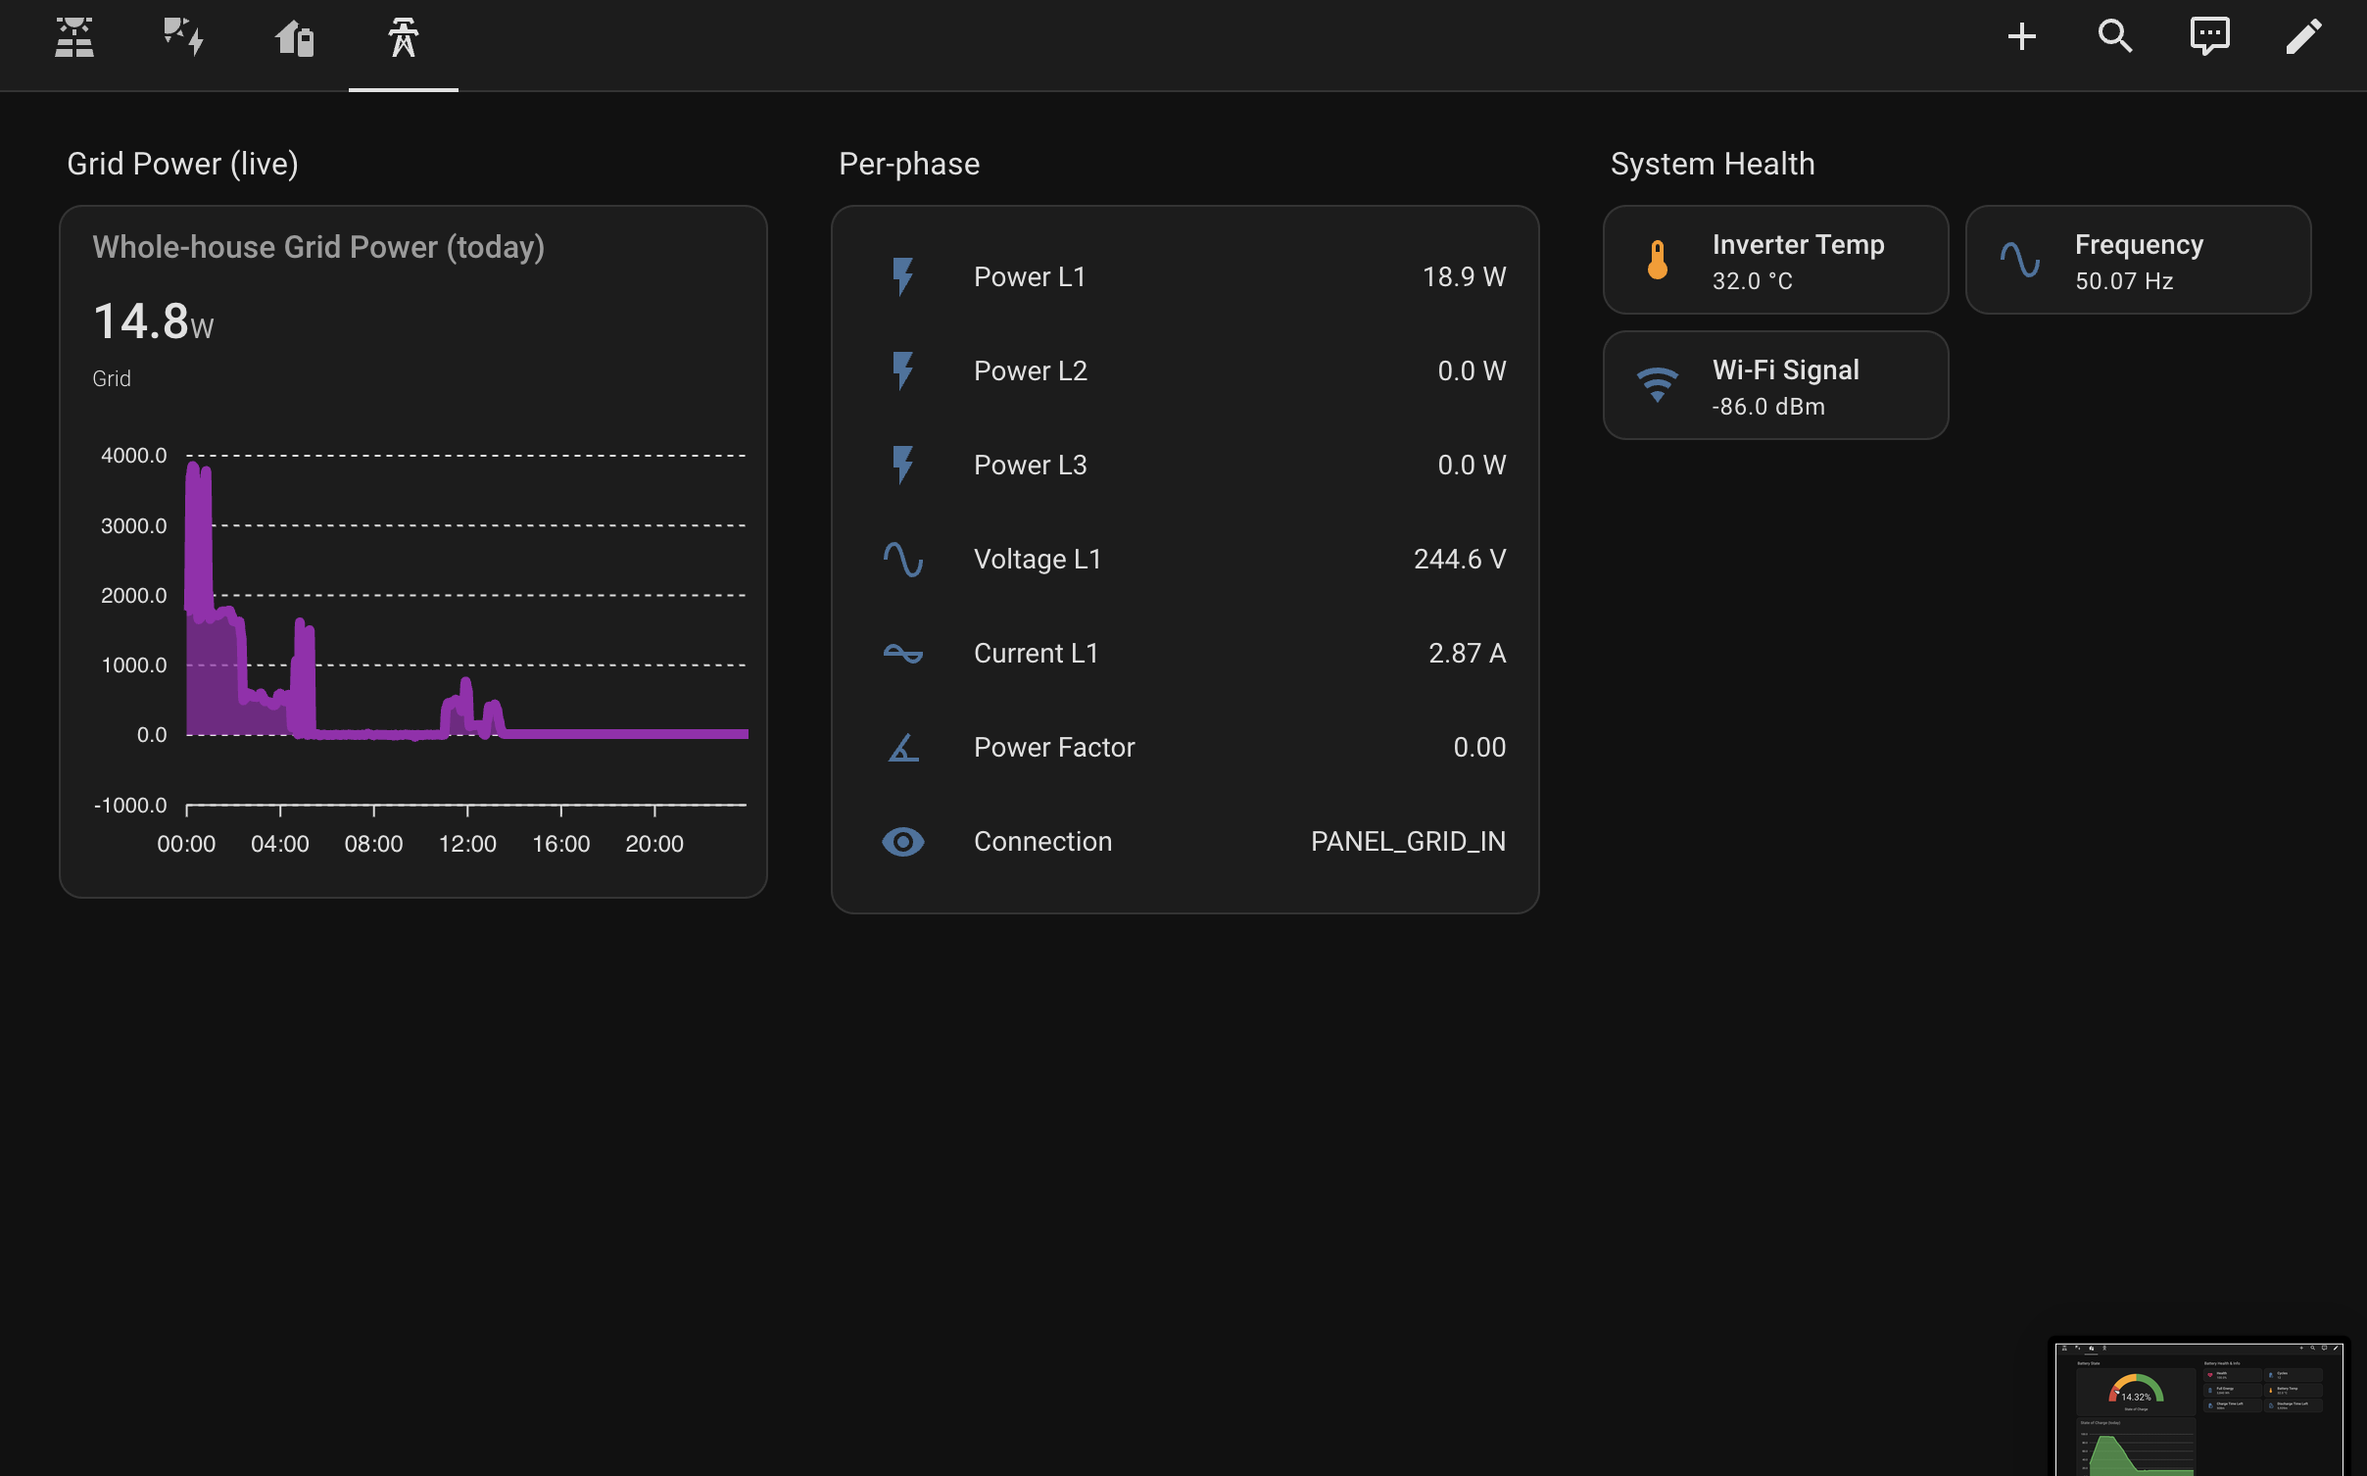
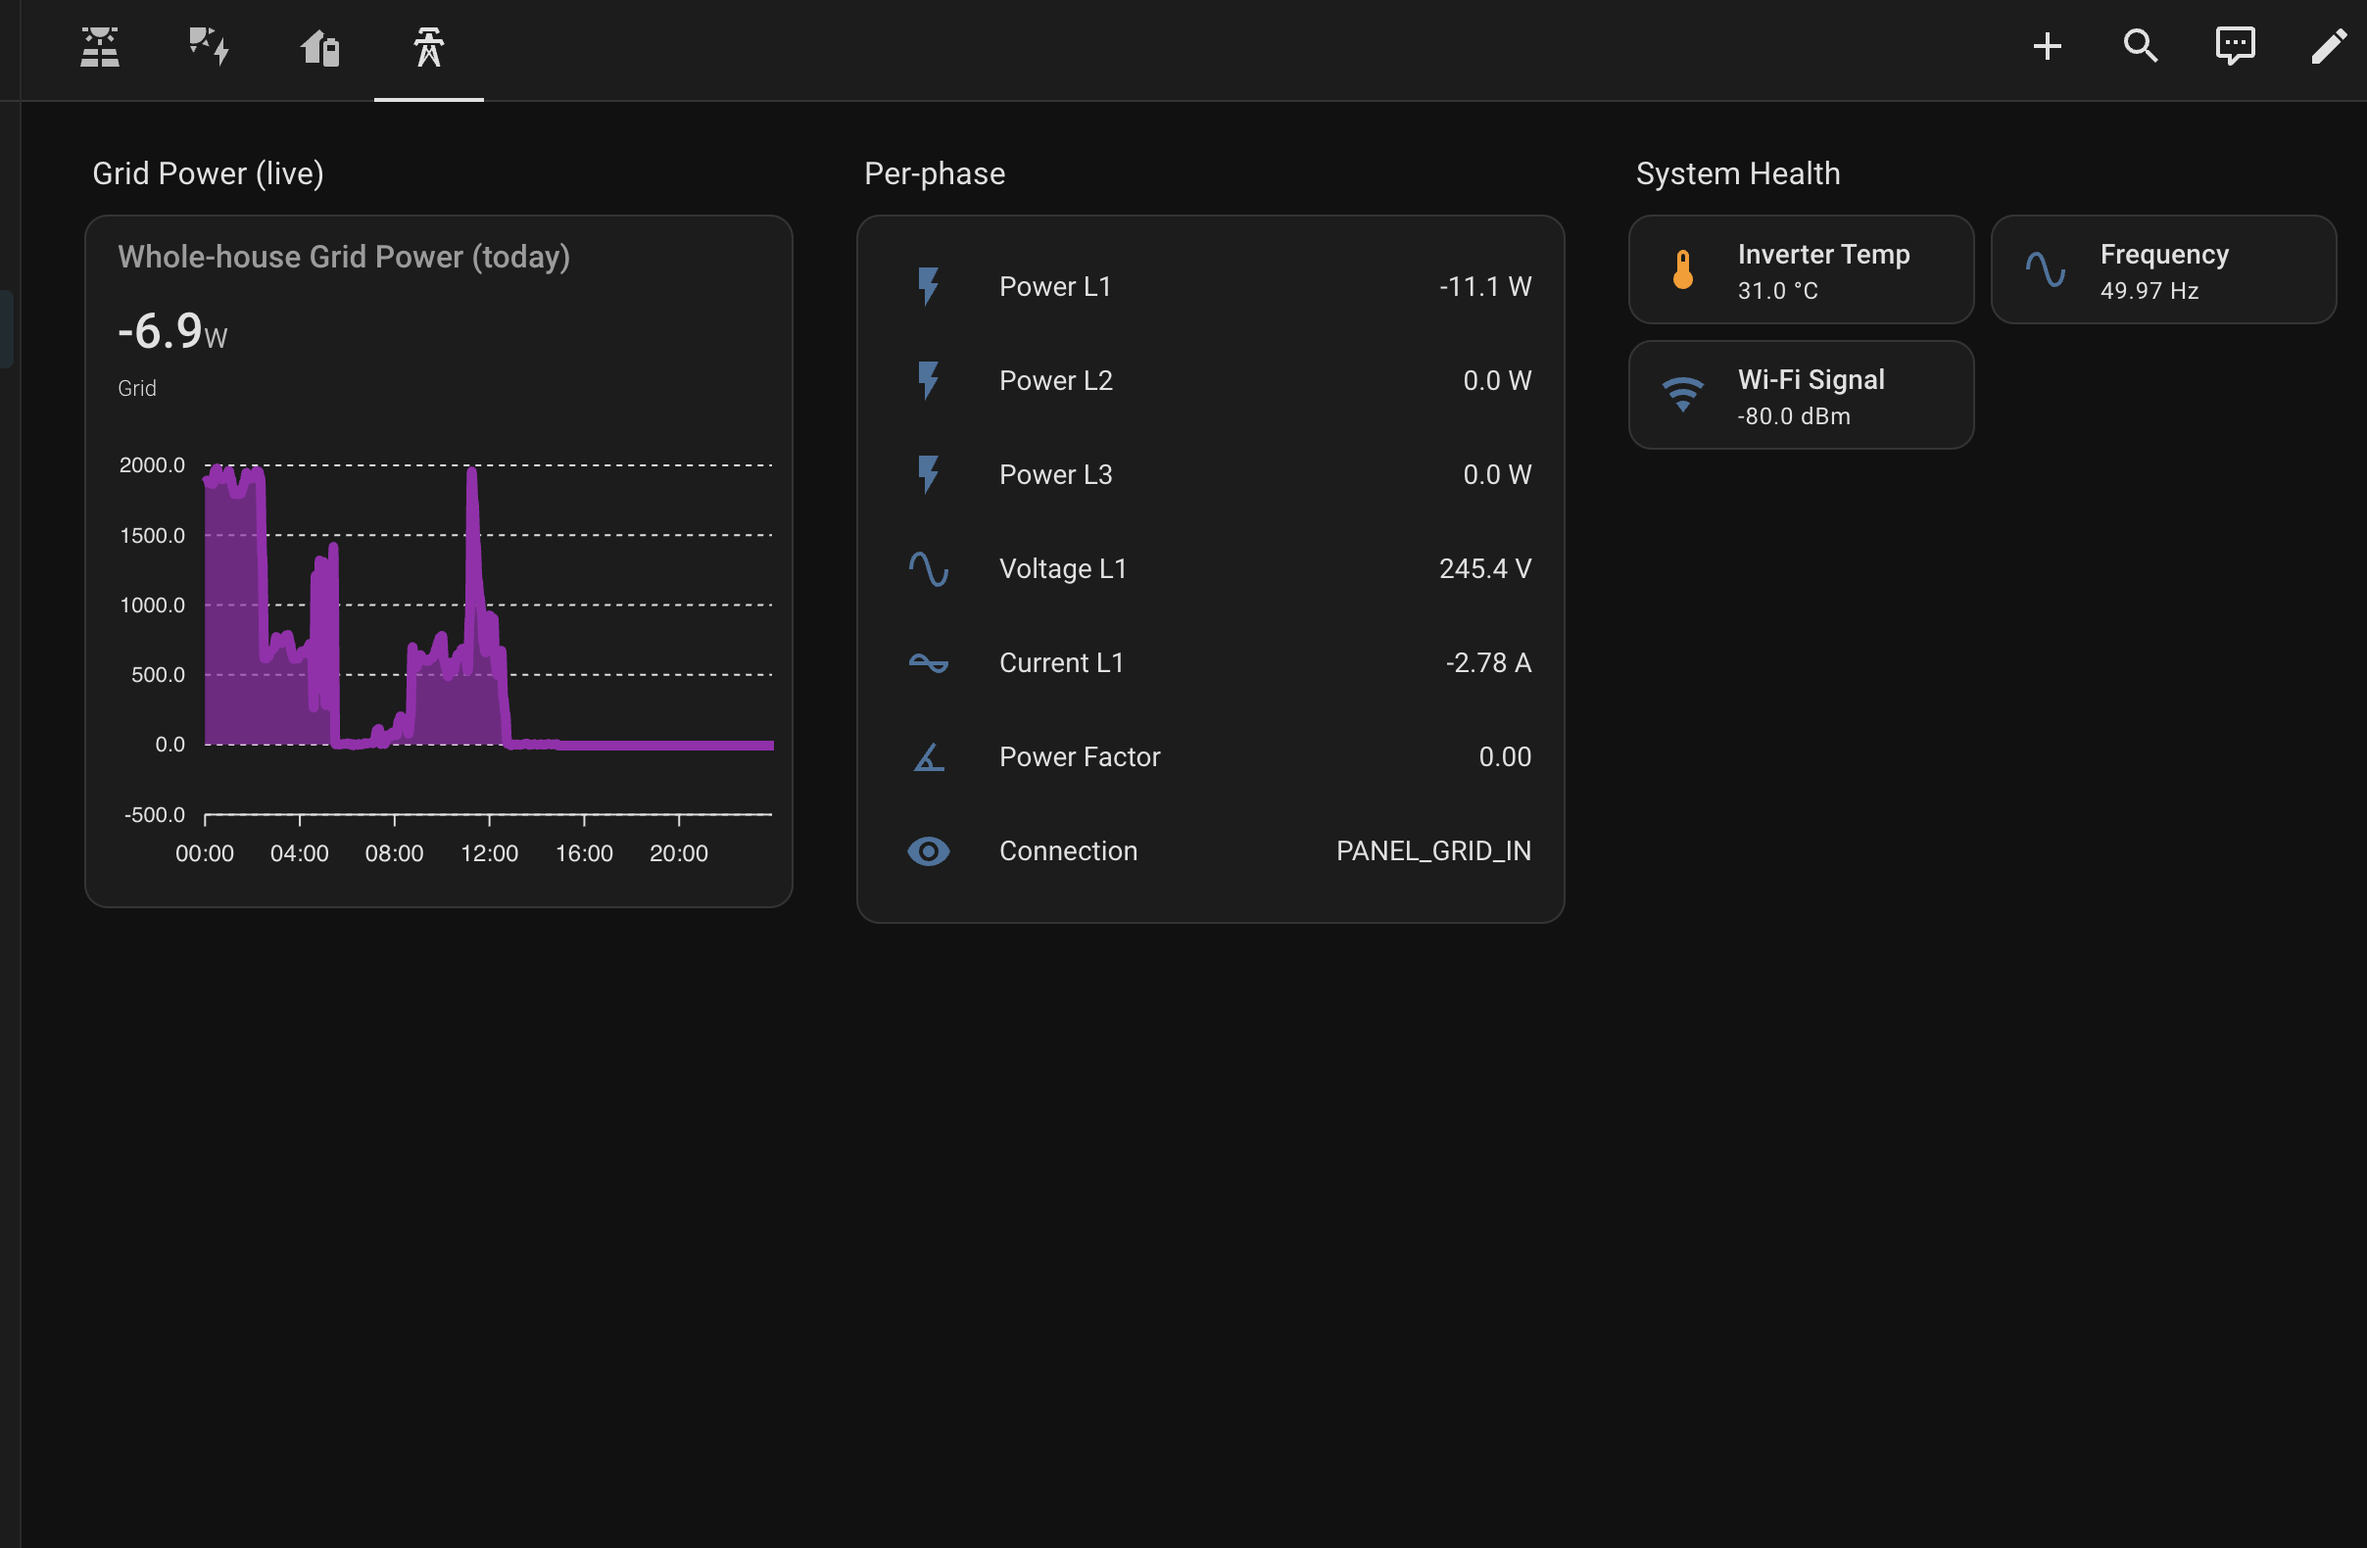
v0.6.0 docs: update README, CHANGELOG, entity_mapping, and screenshots
- README: update intro, features, supported devices (add Stream Max, multi-battery
  cascade), dashboard card name (ecoflow-power-flow-card), rate limiting note
  (single shared MQTT connection)
- CHANGELOG: add v0.6.0 entry covering all changes from this session
- docs/entity_mapping.md: already updated in previous commit
- docs/images: replace all four dashboard screenshots with current UI

diff --git a/README.md b/README.md
@@ -1,14 +1,14 @@
 # EcoFlow Stream (Public API) — Home Assistant Integration
 
-A lightweight, independent Home Assistant integration for the **EcoFlow Stream Ultra X**
-inverter and the EcoFlow **Smart Meter**, built on EcoFlow's
+A lightweight, independent Home Assistant integration for **EcoFlow Stream** inverter
+systems and the EcoFlow **Smart Meter**, built on EcoFlow's
 **official public developer API** (IoT Open) — HMAC-signed HTTP plus the EcoFlow MQTT
 broker for near-real-time push telemetry.
 
-> **Supported devices:** this integration has only been developed and verified against
-> the **Stream Ultra X** inverter and the **Smart Meter**. Other Stream models
-> (Stream, Stream Max, Stream Ultra) are **not officially supported** — see
-> [Supported devices](#supported-devices) below.
+> **Supported devices:** this integration is developed and verified against the
+> **Stream Ultra X** (including multi-battery cascade systems) and the **Smart Meter**.
+> The **Stream Max** is also supported. Other Stream models are not officially
+> supported — see [Supported devices](#supported-devices) below.
 
 > This is a clean-room integration that uses only EcoFlow's documented public API.
 > It is **not** derived from any other integration's code. It was inspired by the
@@ -18,7 +18,12 @@ broker for near-real-time push telemetry.
 ## Features
 
 - **Near-real-time power flow** via MQTT push — solar, battery, grid, and home load.
-- **Per-string PV power** (PV1–PV4) for the Stream Ultra X inverter.
+- **Per-string PV power** (PV1–PV4) per inverter.
+- **Multi-battery (cascade) systems** — two or more daisy-chained Stream batteries
+  are fully supported. System-level aggregate sensors appear only on the master device;
+  each battery also has its own per-device SoC, temperature, DC bus power, and PV
+  string sensors. A **Device Role** diagnostic sensor identifies each unit as Primary
+  or Secondary.
 - **AC output** — inverter AC output power, per-socket (AC1/AC2) output power, and
   AC1/AC2 on/off status plus an off-grid indicator.
 - **Device control** — switch AC1/AC2 outputs on/off, toggle **Feed-in Control**
@@ -43,25 +48,19 @@ broker for near-real-time push telemetry.
 
 ## Supported devices
 
-This integration is developed and tested **only** against:
+This integration is developed and tested against:
 
 | Device | Live power sensors | Daily energy (`*_today`) sensors |
 | --- | :---: | :---: |
-| **Stream Ultra X** (inverter) | ✅ verified | ✅ verified |
+| **Stream Ultra X** (single or multi-battery cascade) | ✅ verified | ✅ verified |
+| **Stream Max** | ✅ verified | ✅ verified |
 | **Smart Meter** | ✅ verified | ✅ (derived from live power) |
 
-**Other Stream models (Stream, Stream Max, Stream Ultra) are not officially
-supported.** They will still be *discovered* and set up without errors, but:
-
-- Live power sensors may or may not populate, depending on whether the model
-  publishes the same MQTT field names as the Ultra X (unverified).
-- The **daily energy sensors will not work** — the historical-energy API codes are
-  specific to the Stream Ultra X (`BK621`), so those sensors are skipped on other
-  models.
-
-Nothing should crash on an unsupported model — it simply degrades: unsupported sensors
-stay unavailable or are not created. If you have another Stream model and want to
-help add support, please open an issue with a diagnostic dump.
+**Other Stream models (Stream, Stream Ultra) are not officially supported.** They will
+still be *discovered* and set up without errors, but live power sensors may or may not
+populate depending on whether the model publishes the same MQTT field names (unverified).
+If you have another Stream model and want to help add support, please open an issue
+with a diagnostic dump.
 
 ## Installation
 
@@ -117,30 +116,33 @@ A ready-made Lovelace dashboard is included at
 [`dashboards/solar_dashboard.yaml`](dashboards/solar_dashboard.yaml). It uses the
 following HACS frontend cards:
 
-- Power Flow Card Plus (`custom:power-flow-card-plus`)
-- ApexCharts Card (`custom:apexcharts-card`)
-- Mushroom (`custom:mushroom-*`)
+- **EcoFlow Power Flow Card** (`custom:ecoflow-power-flow-card`)
+- **ApexCharts Card** (`custom:apexcharts-card`)
+- **Mushroom** (`custom:mushroom-*`)
 
 Copy its contents into a new dashboard via **Edit → Raw configuration editor**, then
-adjust the entity IDs to match your device serial numbers.
+replace the `XXXX` / `XXXX2` / `YYYY` placeholder prefixes with your own device
+serial-number suffixes (as shown in Developer Tools → States).
 
 ### Overview
 
-Live power flow between solar, battery, grid, and home, plus "right now" and "today"
-summary tiles.
+Live power flow between solar, battery, grid, and home. Right-now tiles plus
+per-battery SoC and today's energy summary alongside the flow card.
 
 ![Overview dashboard](docs/images/dashboard-overview.png)
 
 ### Solar
 
-Solar power today, per-string (PV1–PV4) output gauges, and a 7-day energy history.
+Solar power today, per-string (PV1–PV4) output gauges for each battery, and a
+7-day energy history.
 
 ![Solar dashboard](docs/images/dashboard-solar.png)
 
 ### Battery
 
-State of charge, health, cycles, temperature, full-energy capacity, and
-charge/discharge time estimates.
+System aggregate SoC gauge and chart, per-battery SoC comparison, individual battery
+health, cycles, temperature, capacity, charge/discharge time estimates, and Device
+Role (Primary / Secondary).
 
 ![Battery dashboard](docs/images/dashboard-battery.png)
 
@@ -186,9 +188,11 @@ designed to stay well inside them:
   persistent MQTT subscription per device — the integration does **not** poll for
   power/battery values. That is by far the largest source of requests in
   poll-based integrations, and it is eliminated here.
-- **A fixed MQTT client ID.** The client ID is derived from your account and group
-  (`ecoflow-streamx-{account}-{group}`) and reused on every (re)connect, so
-  reconnects do not burn through EcoFlow's daily new-client-ID allowance.
+- **A single shared MQTT connection.** All devices in an account share one paho
+  MQTT client (one client ID, one broker connection). The client subscribes to every
+  device's topic and routes messages internally. This is the pattern recommended by
+  EcoFlow and avoids the mutual-kickout disconnect loop that occurs when multiple
+  clients share a client ID.
 - **Reconnect backoff.** If the broker drops a device, the MQTT client reconnects
   with exponential backoff (2 s → 300 s) instead of hammering the server, and the
   disconnect is logged once rather than on every retry. This avoids the retry

diff --git a/CHANGELOG.md b/CHANGELOG.md
@@ -5,6 +5,50 @@ All notable changes to this project are documented in this file.
 The format is based on [Keep a Changelog](https://keepachangelog.com/en/1.1.0/),
 and this project adheres to [Semantic Versioning](https://semver.org/spec/v2.0.0.html).
 
+## [0.6.0] - 2026-07-27
+
+### Added
+- **Multi-battery (cascade) system support.** Two or more daisy-chained Stream
+  batteries are now handled correctly. The cascade master is resolved at startup
+  via `GET /device/system/main/sn`; system-level aggregate sensors (`cmsBattSoc`,
+  `powGetPvSum`, `powGetSysGrid`, etc.) are only created for the master device.
+  Secondary batteries show their own per-device sensors (SoC, temperature, DC bus
+  power, per-string PV) and are never polluted with the master's system-wide values.
+- **Device Role sensor** — a new static diagnostic sensor (`Primary` / `Secondary`)
+  on every Stream battery device so you can identify each unit at a glance.
+- **Stale entity cleanup** — on startup, any system-level or duplicate energy sensor
+  entities left over on a secondary device from a previous integration version are
+  automatically disabled via `RegistryEntryDisabler.INTEGRATION`.
+- **Updated dashboard** — per-battery SoC tiles and Device Role tiles in the Overview
+  and Battery views; Battery 2 PV strings section in the Solar view; both batteries
+  labelled Primary/Secondary throughout.
+
+### Changed
+- **Single shared MQTT connection.** Replaced per-device paho MQTT clients (which all
+  shared one client ID and caused a mutual-kickout disconnect storm on multi-device
+  systems) with a single `StreamMqttHub` per config entry. One connection subscribes
+  to all device topics and routes messages to the correct coordinator. Fixes the rapid
+  MQTT connect/disconnect warnings reported in
+  [#3](https://github.com/htims1989/ecoflow-public-api/issues/3).
+- **AC socket detection is now model-based.** `relay2Onoff` / `relay3Onoff` appear
+  in the broker payload for every device regardless of hardware, so the previous
+  `in store` check was unreliable. The integration now uses the SN prefix to determine
+  which relays a device physically has: BK41 (Stream Max) gets one AC switch; BK61
+  and other Stream inverters get two; Smart Meters get none. Fixes
+  [#2](https://github.com/htims1989/ecoflow-public-api/issues/2).
+- **Historical energy coordinator created for master device only.** The energy API
+  codes are `MASTER_DATA` level and return identical data regardless of which device
+  SN is queried, so creating coordinators for secondary devices produced duplicate
+  sensors. Only the cascade master device now gets a `StreamEnergyCoordinator`.
+- **BK61 model correctly identified as Stream Ultra X.** The `device_model()` function
+  now maps the `BK61` SN prefix to `Stream Ultra X` (previously fell through to the
+  generic `Stream` label).
+
+### Fixed
+- `ssl.create_default_context()` was being called on the async event loop. This
+  triggers a blocking-call warning in HA 2026.x (Python 3.14) because the function
+  loads CA certificates from disk. Moved into `hass.async_add_executor_job()`.
+
 ## [0.5.0] - 2026-07-24
 
 ### Changed
